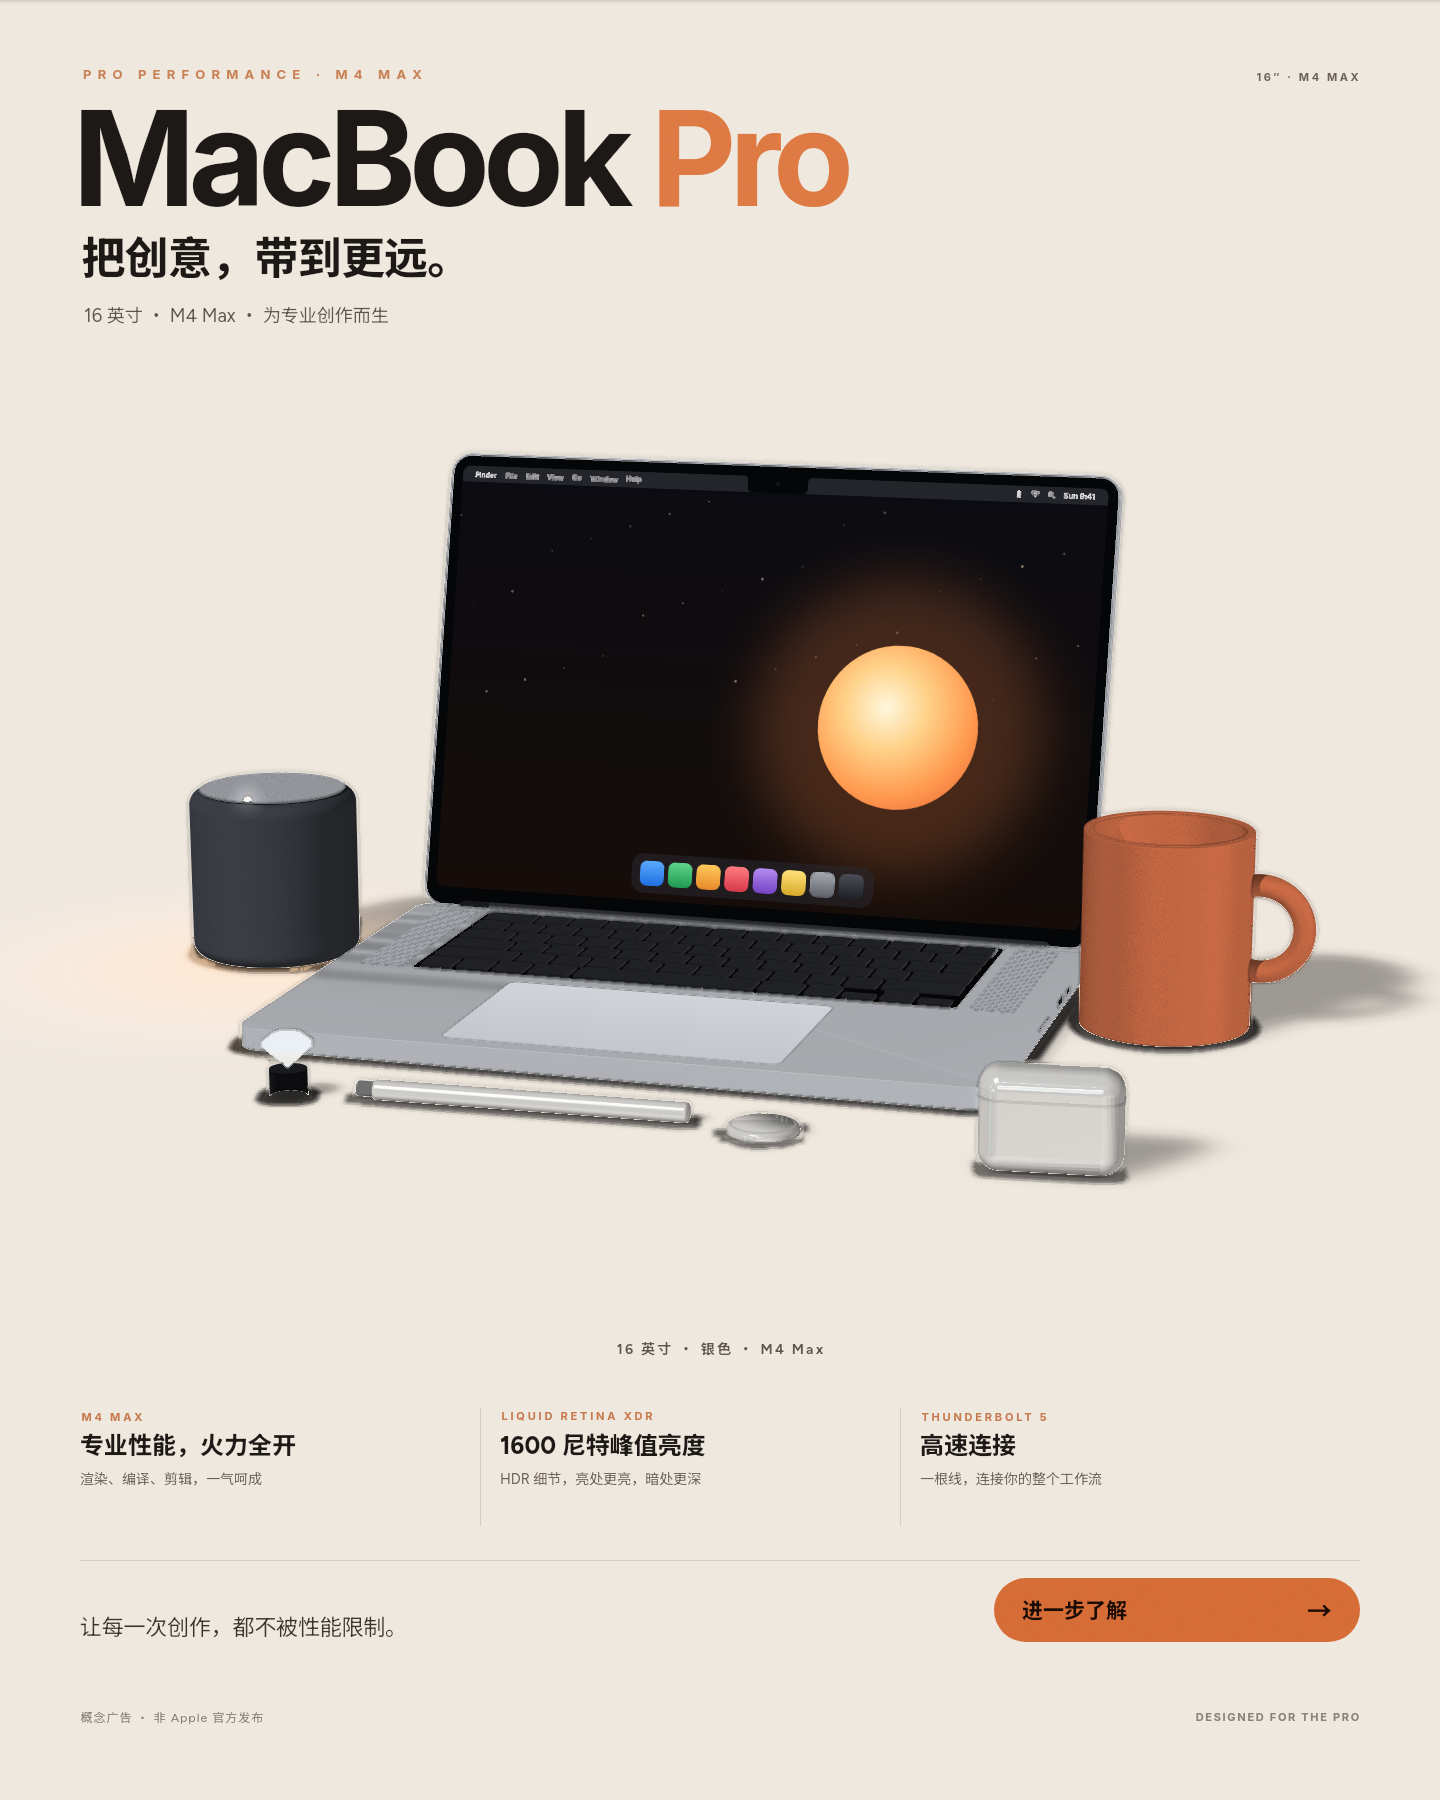
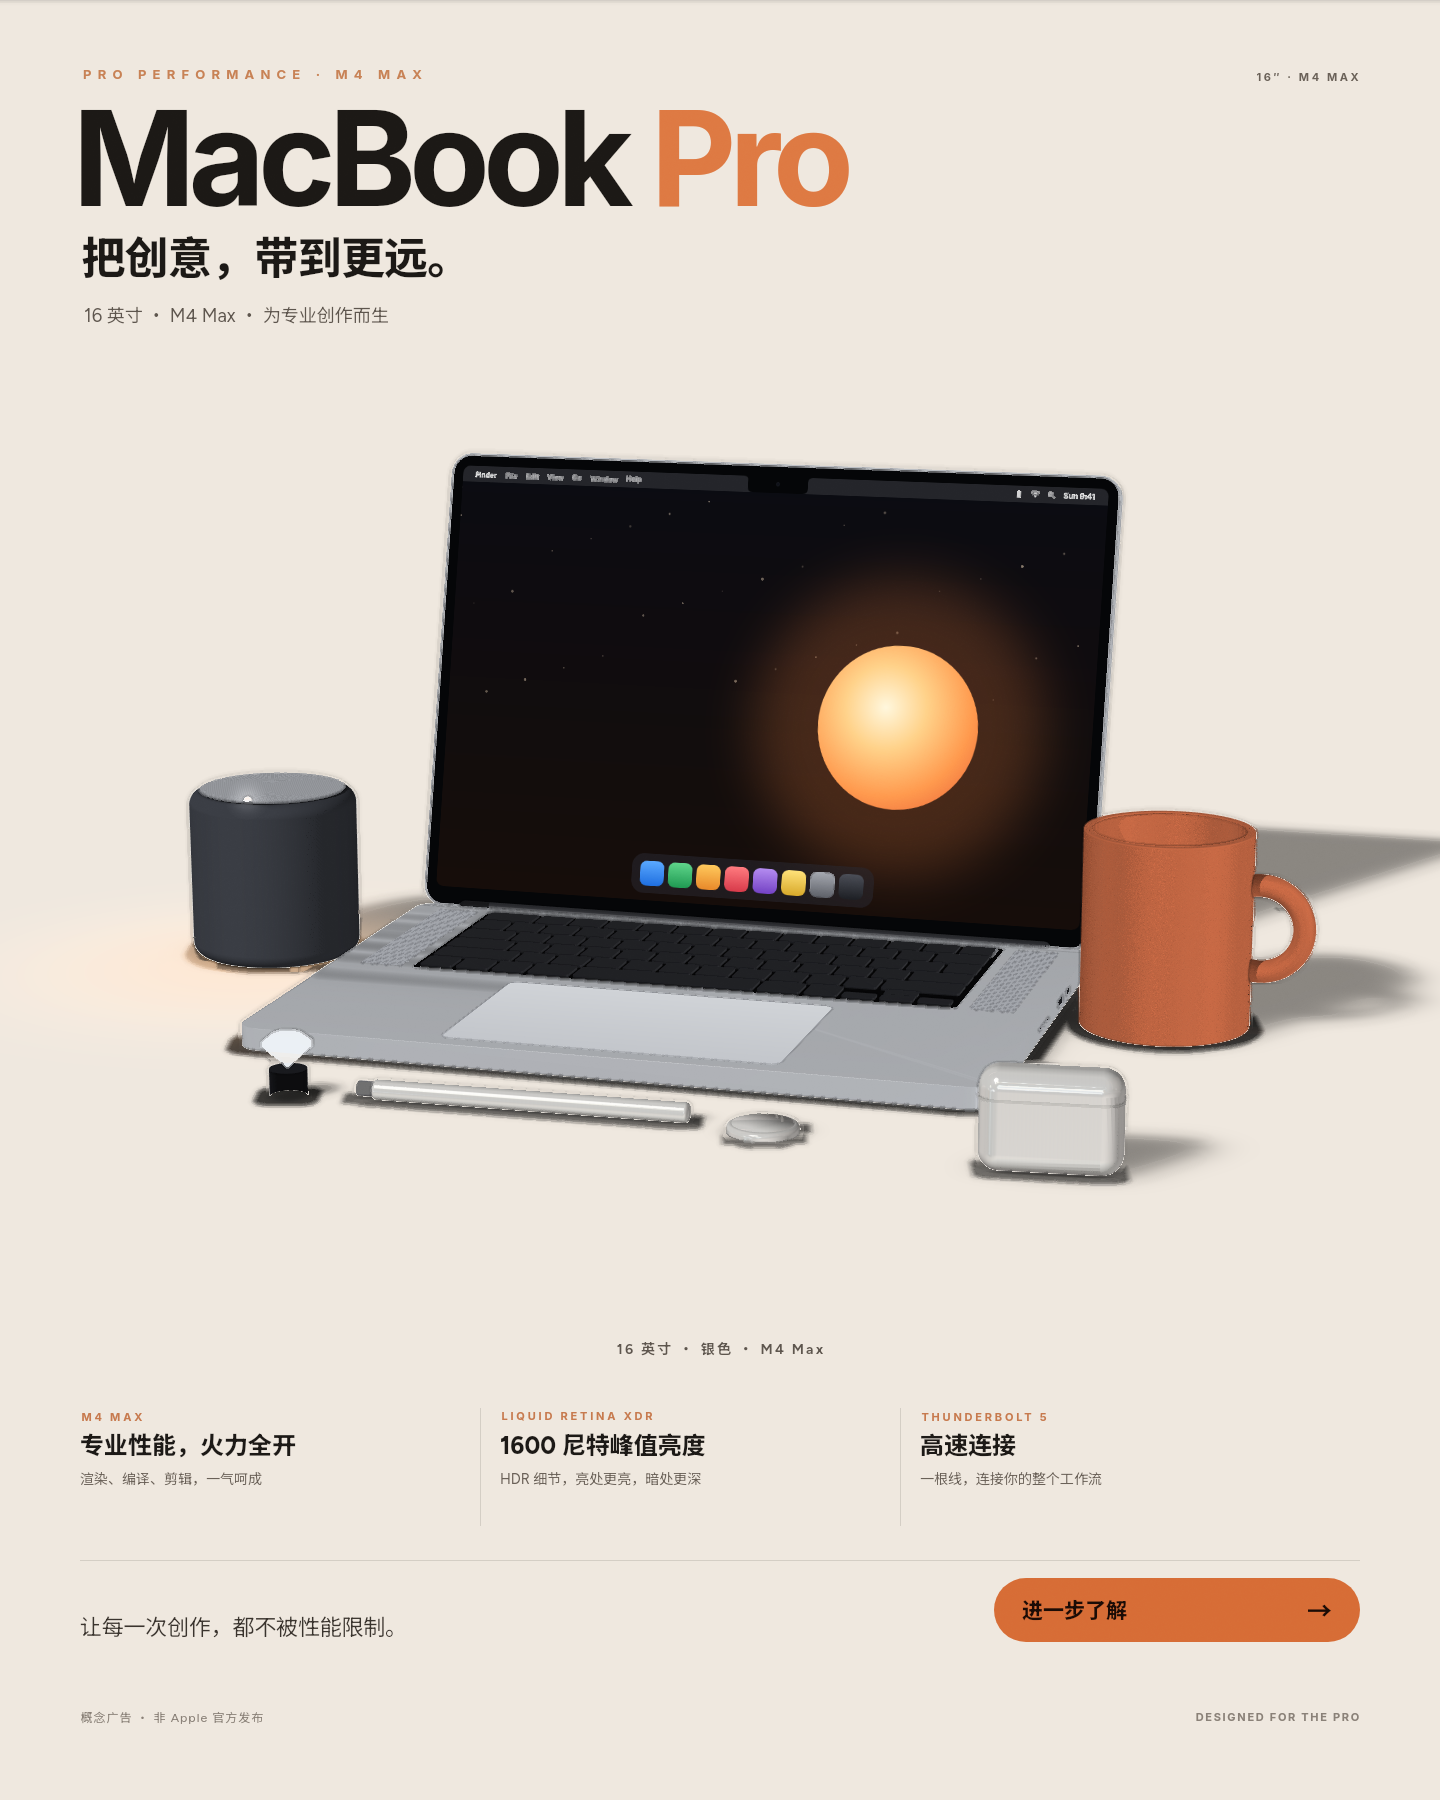
Cast lid, key, hinge, and prop shadows for a grounded desk look.
Re-enable shadow casting on the screen lid, keycaps, hinge, and AirPods
seam; soften the ground contact a bit so every prop reads as sitting on
the desk.

Changed region(s): [[0.875, 0.4356, 1.0, 0.5289], [0.8438, 0.56, 0.875, 0.5911], [0.7188, 0.56, 0.75, 0.5911]]

diff --git a/examples/macbook-pro.tsx b/examples/macbook-pro.tsx
@@ -124,9 +124,9 @@ function Base() {
         <rect x={padX - 1.5} y={padY - 1.5} width={PAD.w + 3} height={PAD.h + 3} rx="13" fill="#8f9298" />
         <rect x={padX} y={padY} width={PAD.w} height={PAD.h} rx="12" fill="linear-gradient(180deg, #d0d3d7 0%, #c3c6cb 100%)" />
       </layer>
-      <path d={keyPath} fill={KEY} material="plastic" depth="4" z={TOP + 1.6} stroke="none" cast-shadow="false" />
+      <path d={keyPath} fill={KEY} material="plastic" depth="4" z={TOP + 1.6} stroke="none" />
       {/* 转轴：黑色的转轴盖，左右收在机身圆角里 */}
-      <rect x={CORNER + 24} y="-8" width={W - 2 * CORNER - 48} height="18" rx="9" fill="#2a2b2f" material="plastic" depth="18" z={TOP - 3} cast-shadow="false" />
+      <rect x={CORNER + 24} y="-8" width={W - 2 * CORNER - 48} height="18" rx="9" fill="#2a2b2f" material="plastic" depth="18" z={TOP - 3} />
       {/* 右侧接口：雷雳、HDMI、SDXC。层的 x 横跨机身厚度，y 沿进深 */}
       <layer x={W - T / 2} y="0" width={T} height={D} origin={`${T / 2} 0`} rotateY="90" z="0.3" cast-shadow="false">
         <rect x={T / 2 - 4} y="150" width="8" height="24" rx="4" fill="#1c1d20" />
@@ -206,8 +206,9 @@ function Wallpaper() {
 
 function Lid() {
   return (
-    <layer x={STAGE.x} y={STAGE.groundY - T + 4 - LID_H} width={W} height={LID_H} origin={`${W / 2} ${LID_H}`} rotateX={LID_TILT} cast-shadow="false">
-      <rect width={W} height={LID_H} rx={CORNER} round="z" fill={SILVER} material={SHELL} depth={LID_T} z={-LID_T / 2 - 1} stroke="none" cast-shadow="false" />
+    <layer x={STAGE.x} y={STAGE.groundY - T + 4 - LID_H} width={W} height={LID_H} origin={`${W / 2} ${LID_H}`} rotateX={LID_TILT}>
+      <rect width={W} height={LID_H} rx={CORNER} round="z" fill={SILVER} material={SHELL} depth={LID_T} z={-LID_T / 2 - 1} stroke="none" />
+      {/* 屏幕玻璃贴在盖内侧，不再单独投一圈影 */}
       <rect x={GLASS_INSET} y={GLASS_INSET} width={W - 2 * GLASS_INSET} height={LID_H - 2 * GLASS_INSET} rx={CORNER - GLASS_INSET} fill="#050608" cast-shadow="false" />
       <Wallpaper />
       <circle cx={W / 2} cy={SCREEN.y + 10} r="2.4" fill="#0e1018" stroke="#23262e" stroke-width="0.6" />
@@ -282,7 +283,7 @@ function Props() {
       <cylinder cx={TAG.cx} cy={TAG.cy} r={TAG.r} height={TAG.h} rx="6" z={TAG.h / 2} rotateX="90" fill="#f4f3ef" material="plastic 0.2" />
       {/* 右前：竖放的 AirPods Pro 盒，偏右避开掌托取样区 */}
       <rect x={POD.x} y={POD.y} width={POD.w} height={POD.d} depth={POD.h} rx="24" z={POD.h / 2} fill="#f4f3ef" material="plastic 0.12" rotate="-6" />
-      <rect x={POD.x - 0.6} y={POD.y - 0.6} width={POD.w + 1.2} height={POD.d + 1.2} depth="1.4" rx="24" round="z" z={POD.h * 0.72} fill="#c9c9c4" material="plastic 0.3" rotate="-6" cast-shadow="false" />
+      <rect x={POD.x - 0.6} y={POD.y - 0.6} width={POD.w + 1.2} height={POD.d + 1.2} depth="1.4" rx="24" round="z" z={POD.h * 0.72} fill="#c9c9c4" material="plastic 0.3" rotate="-6" />
       {/* 左前：钻石尖朝下立在黑色绒面展台上，深色底衬出玻璃 */}
       <circle cx={GEM.x} cy={GEM.y} r={GEM.r * 0.7} depth={GEM.stand} z={GEM.stand / 2} fill="#202126" material="matte" />
       <model object={diamond} unit={GEM.r} x={GEM.x} y={GEM.y} z={GEM.stand + GEM.r * 0.95} material="glass 0.06" />
@@ -297,7 +298,7 @@ export default (
       <Lid />
       <Base />
       <Props />
-      <ground y={STAGE.groundY} rotateX="90" fill="#efe8df" shadow-blur="36" shadow-opacity="0.34" />
+      <ground y={STAGE.groundY} rotateX="90" fill="#efe8df" shadow-blur="42" shadow-opacity="0.42" />
     </layer>
     <layer x="80" y="66">
       <p style="font-family:Inter; font-size:13px; font-weight:700; letter-spacing:6.2px; color:#c88255">PRO PERFORMANCE · M4 MAX</p>
